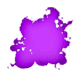
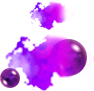
bacteria

diff --git a/js/animations/skills/Bacteria.js b/js/animations/skills/Bacteria.js
@@ -1,0 +1,66 @@
+import { Layer } from "../animations.js";
+
+const projectile = new Image();
+projectile.src = "img/display/effects/bacteria.png";
+
+const impact = new Image();
+impact.src = "img/display/effects/bacteriaimpact.png";
+
+export default class Bacteria {
+  constructor(left) {
+    this.layer = Layer.EFFECTS
+    this.left = left;
+    this.x = 400;
+    this.y = 470;
+    this.frame = 0;
+    this.impactOpacity = 1.0;
+  }
+
+  update() {
+    ++this.frame;
+    if (this.frame < 12) {
+
+    } else if (this.frame < 21) {
+      this.x += 27;
+    } else if (this.frame < 34) {
+    } else if (this.frame < 41) {
+      this.impactOpacity -= 0.1;
+    }
+  }
+
+  /**
+   * notes @ 30 fps
+   * frames 1-11 wind up
+   * frames 12-20 projectile
+   * frames 21-40 impact
+   * frames 41-45 wait
+   */
+  draw(ctx) {
+    if (this.frame > 11 && this.frame < 21) {
+      if (this.left) {
+        ctx.drawImage(projectile, this.x - projectile.width / 2, this.y - projectile.height / 2);
+      } else {
+        ctx.scale(-1, 1);
+        ctx.drawImage(projectile, this.x - projectile.width / 2 - ctx.canvas.width, this.y - projectile.height / 2);
+        ctx.scale(-1, 1);
+      }
+    }
+    if (this.frame > 20 && this.frame < 41) {
+      if (this.left) {
+        ctx.globalAlpha = this.impactOpacity;
+        ctx.drawImage(impact, 0, 0, impact.width, impact.height, 700 - impact.width * 1.5 / 2, 550 - impact.height * 1.5, impact.width * 1.5, impact.height * 1.5);
+        ctx.globalAlpha = 1.0;
+      } else {
+        ctx.globalAlpha = this.impactOpacity;
+        ctx.scale(-1, 1);
+        ctx.drawImage(impact, 0, 0, impact.width, impact.height, 700 - impact.width * 1.5 / 2 - ctx.canvas.width, 550 - impact.height * 1.5, impact.width * 1.5, impact.height * 1.5);
+        ctx.scale(-1, 1);
+        ctx.globalAlpha = 1.0;
+      }
+    }
+  }
+
+  isFinished() {
+    return this.frame > 45;
+  }
+}

diff --git a/js/display.js b/js/display.js
@@ -27,6 +27,7 @@ const drunk = getImage("img/display/effects/drunk.png");
 const mask = getImage("img/display/effects/mask.png");
 const violent = getImage("img/display/effects/violent.png");
 const stunned = getImage("img/display/effects/stunned.png");
+const sick = getImage("img/display/effects/sick.png");
 
 export async function createProfile(player, options = { bg: 11, left: true }) {
   const canvas = document.createElement("canvas");
@@ -330,8 +331,10 @@ function renderStatusEffect(ctx, status, x, y, left = true) {
     ctx.drawImage(shieldWall, x - shieldWall.width / 2, y - shieldWall.height);
   } else if (status === Status.violent.name) {
     ctx.drawImage(violent, x - violent.width / 2, y - violent.height);
-  } else if (status === Status.stunned.name) {
+  } else if (status === Status.stunned.name || status === Status.dizzy.name) {
     ctx.drawImage(stunned, x - stunned.width / 2, y - 150 - stunned.height);
+  } else if (status === Status.sick.name) {
+    ctx.drawImage(sick, x - sick.width / 2, y - sick.height);
   }
   if (!left) {
     ctx.scale(-1, 1);

diff --git a/js/components/Replay.js b/js/components/Replay.js
@@ -56,6 +56,12 @@ const parseNextLog = timeline => {
         callback: () => sprite.state = FighterState.attack
       });
       timeline.frame += 57;
+    } else if (name === Skills.bacteria.name) {
+      timeline.events.push({
+        frame: timeline.frame,
+        callback: () => timeline.ongoingAnimations.push(new AnimationDefinitions.Bacteria(id % 2 === 0))
+      });
+      timeline.frame += 45;
     } else if (name === Skills.cleanse.name) {
       timeline.events.push({
         frame: timeline.frame,

diff --git a/js/animations/animations.js b/js/animations/animations.js
@@ -4,6 +4,7 @@ import HpBar from "./HpBar.js";
 import SpBar from "./SpBar.js";
 import TextFloat from "./TextFloat.js";
 import Assassinate from "./skills/Assassinate.js";
+import Bacteria from "./skills/Bacteria.js";
 import Barbarism from "./skills/Barbarism.js";
 import BloodFrenzy from "./skills/BloodFrenzy.js";
 import Bomb from "./skills/Bomb.js";
@@ -49,6 +50,7 @@ const AnimationDefinitions = {
   FuryBar,
   TextFloat,
   FuryBurst,
+  Bacteria,
   Cleanse,
   FireMeteorite,
   FireShield,

diff --git a/js/animations/skills/BloodFrenzy.js b/js/animations/skills/BloodFrenzy.js
@@ -8,12 +8,12 @@ flame.src = "img/display/effects/bloodfrenzy2.png";
 
 export default class BloodFrenzy {
   constructor(left) {
-    this.layer = Layer.EFFECTS2
+    this.layer = Layer.EFFECTS
     this.left = left;
     this.x = 300;
     this.y = 550;
     this.frame = 0;
-    this.flameOpacity = 1.0
+    this.flameOpacity = 1.0;
   }
 
   update() {
